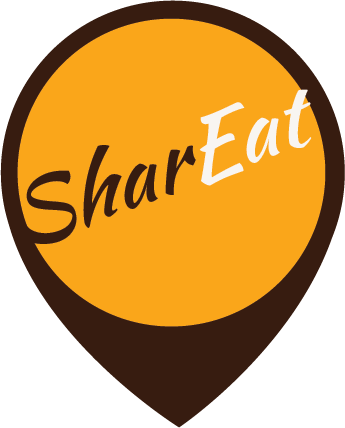
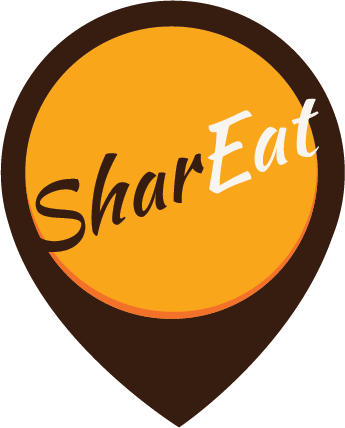
[feature] Add google autocomplete to search bar

Changed region(s): [[0.029, 0.0304, 0.9565, 0.7897]]

diff --git a/client/style/style.css b/client/style/style.css
@@ -48,8 +48,8 @@ body {
 
 .navbar-brand > img {
 
-  height: 70px;
-  width: 70px;
+  height: 90px;
+  width: 72px;
   left: 25px;
 }
 
@@ -59,25 +59,26 @@ body {
 
 }
 
-.nav-search input[type=search] {
+.autoComplete input[type=search] {
   width: 15px;
   color: transparent;
   cursor: pointer;
+  z-index: 2;
 }
-.nav-search input[type=search]:hover {
+.autoComplete input[type=search]:hover {
   background-color: #fff;
 }
-.nav-search input[type=search]:focus {
+.autoComplete input[type=search]:focus {
   width: 150px;
   padding-left: 32px;
   color: #000;
   background-color: #fff;
   cursor: auto;
 }
-.nav-search input:-moz-placeholder {
+.autoComplete input:-moz-placeholder {
   color: transparent;
 }
-.nav-search input::-webkit-input-placeholder {
+.autoComplete input::-webkit-input-placeholder {
   color: transparent;
 }
 
@@ -171,7 +172,7 @@ input::-webkit-input-placeholder {
   width: 33%;
   height: 100%;
   float : right;
-  background-color: #F7F4EF; 
+  background-color: #F7F4EF;
   /*position : fixed;*/
 }
 
@@ -182,7 +183,7 @@ input::-webkit-input-placeholder {
   margin: 20px;
   cursor: pointer;
   text-align: center;
-  box-shadow: 0 1.5px 4px rgba(0, 0, 0, 0.4), 0     
+  box-shadow: 0 1.5px 4px rgba(0, 0, 0, 0.4), 0
     2.5px 6px rgba(0, 0, 0, 0.2);
 }
 
@@ -250,7 +251,7 @@ input::-webkit-input-placeholder {
   font-size: 24px;
   color: white;
   opacity: 0.6;
-  filter: alpha(opacity=60); 
+  filter: alpha(opacity=60);
 }
 
 .event-price {
@@ -362,7 +363,7 @@ input::-webkit-input-placeholder {
   display: flex;
   flex-direction: column;
   margin-top: 20px;
-  box-shadow: 0 1.5px 4px rgba(0, 0, 0, 0.4), 0     
+  box-shadow: 0 1.5px 4px rgba(0, 0, 0, 0.4), 0
     2.5px 6px rgba(0, 0, 0, 0.2);
 }
 
@@ -409,8 +410,6 @@ input::-webkit-input-placeholder {
   justify-content: center;
   align-items: center;
 }
-
-/******************************* message box ***********************************/
 
 .col-md-2, .col-md-10{
     padding:0;
@@ -529,4 +528,3 @@ img {
     -webkit-box-shadow: inset 0 0 6px rgba(0,0,0,.3);
     background-color: #555;
 }
-

diff --git a/client/index.html b/client/index.html
@@ -13,7 +13,7 @@
       <!-- FB React fixed-data-tables-->
       <link rel="text/html" href='../node_modules/fixed-data-table/dist/fixed-data-table.min.css'>
       <!-- BootStrap -->
-      <link rel="stylesheet" href="https://maxcdn.bootstrapcdn.com/bootstrap/3.3.7/css/bootstrap.min.css" integrity="sha384-BVYiiSIFeK1dGmJRAkycuHAHRg32OmUcww7on3RYdg4Va+PmSTsz/K68vbdEjh4u" crossorigin="anonymous">  
+      <link rel="stylesheet" href="https://maxcdn.bootstrapcdn.com/bootstrap/3.3.7/css/bootstrap.min.css" integrity="sha384-BVYiiSIFeK1dGmJRAkycuHAHRg32OmUcww7on3RYdg4Va+PmSTsz/K68vbdEjh4u" crossorigin="anonymous">
       <link rel="stylesheet" href="https://cdn.rawgit.com/twbs/bootstrap/v4-dev/dist/css/bootstrap.css">
 
       <link rel="stylesheet" type="text/css" href='style/style.css'>
@@ -22,18 +22,18 @@
 
   <body>
     <div id="app">Trying to link the app but instead got index.html</div>
+    
     <!-- jQuery -->
     <script type="text/javascript" src="http://code.jquery.com/jquery-latest.min.js"></script>
     <!-- react-bootstrap -->
     <script src="https://maxcdn.bootstrapcdn.com/bootstrap/3.3.7/js/bootstrap.min.js" integrity="sha384-Tc5IQib027qvyjSMfHjOMaLkfuWVxZxUPnCJA7l2mCWNIpG9mGCD8wGNIcPD7Txa" crossorigin="anonymous"></script>
-    <script type="text/javascript" src="../dist/bundle.js"></script>
     <!-- Google Map API-->
     <script type="text/javascript" src="https://maps.google.com/maps/api/js?libraries=places&key=AIzaSyDXLvbYh4moubEU_ChyobbXbC8b6EMSrKs"></script>
-    
-    <!-- Video --> 
+
+    <!-- Video -->
     <script type="text/javascript" src="videoConfig.js" ></script>
 
-
+    <script type="text/javascript" src="../dist/bundle.js"></script>
 
   </body>
 </html>

diff --git a/client/containers/searchBar.jsx b/client/containers/searchBar.jsx
@@ -2,6 +2,7 @@ import React, { Component } from 'react';
 import { connect } from 'react-redux';
 import { getAllInRadius } from '../actions/index';
 import { bindActionCreators } from 'redux';
+import Autocomplete from 'react-google-autocomplete';
 
 
 class SearchBar extends Component {
@@ -28,12 +29,17 @@ class SearchBar extends Component {
     return (
       <div className="nav-search">
         <form onSubmit={this.onFormSubmit} className="search-input">
-          <input
-            className="form-control"
-            type="search"
-            placeholder="Search Location"
-            value={this.state.query}
-            onChange={this.onInputChange}
+          <Autocomplete
+            className="autoComplete"
+            style={{width: '90%'}}
+            onPlaceSelected={(place) => {
+              console.log(place);
+            }
+          }
+          type="search"
+          placeholder="Search Location"
+          value={this.state.query}
+          onChange={this.onInputChange}
           />
         </form>
       </div>

diff --git a/client/containers/map-marker.jsx b/client/containers/map-marker.jsx
@@ -66,10 +66,10 @@ class MapMarker extends Component {
           onClick={this.handleJoinEvent}
         >
           <img
-            src="../assets/map-marker.png"
+            src="../assets/soup-marker.png"
             role="presentation"
-            width="16px"
-            height="32px"
+            width="32px"
+            height="40px"
             onMouseEnter={this.handleEnter}
             onMouseLeave={this.handleOut}
           />

diff --git a/client/index.jsx b/client/index.jsx
@@ -7,6 +7,7 @@ import thunk from 'redux-thunk';
 import promise from 'redux-promise';
 
 import { persistStore, autoRehydrate } from 'redux-persist';
+
 import App from './components/app';
 import reducers from './reducers';
 import routes from './routes';

diff --git a/server/db/db.js b/server/db/db.js
@@ -205,7 +205,7 @@ sequelize
   .sync({ force: false })
   .then(() => {
     console.log('Created tables from schema');
-    // dummy.init();
+    //dummy.init();
   });
 
 exports.User = User;
